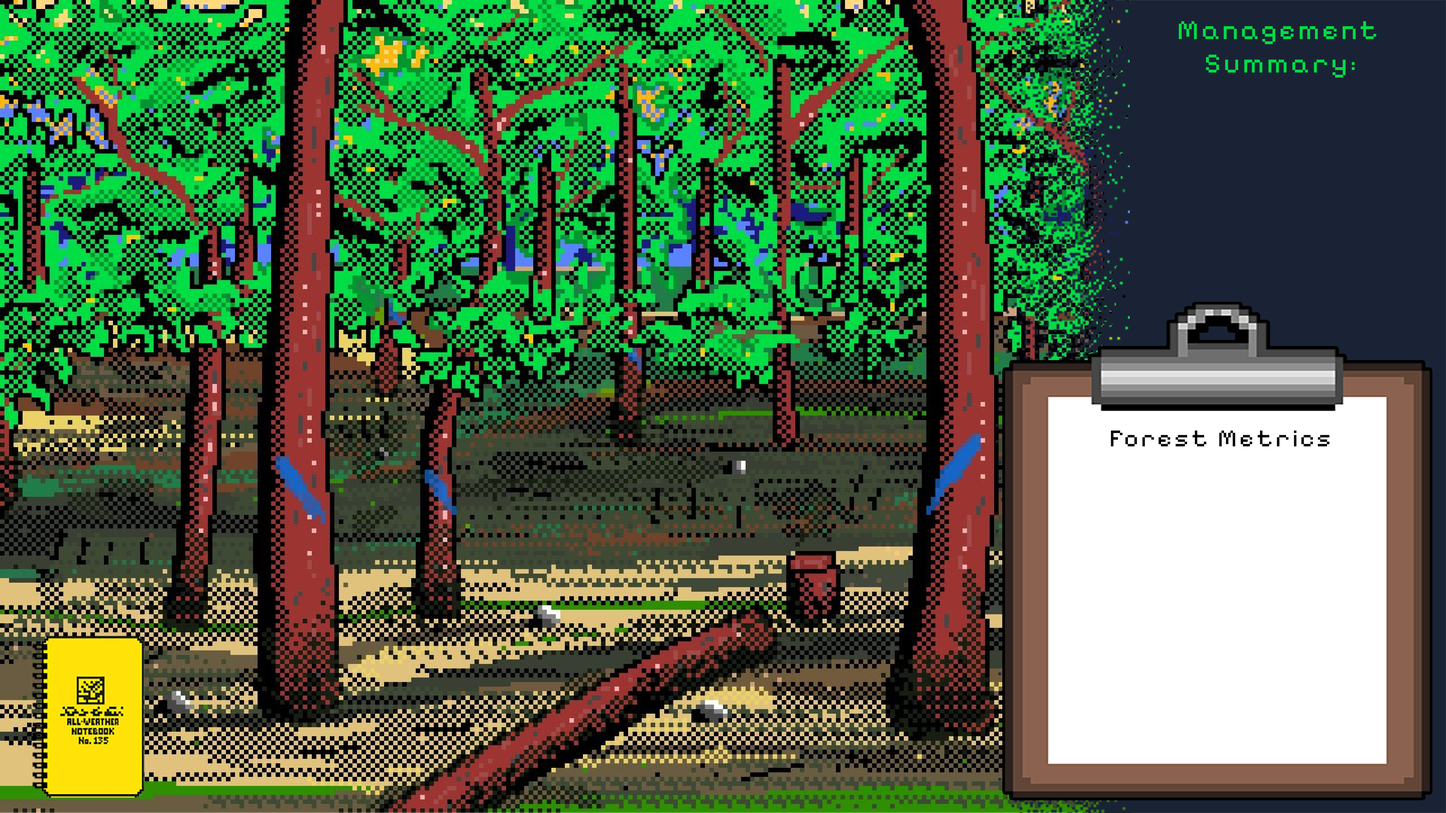
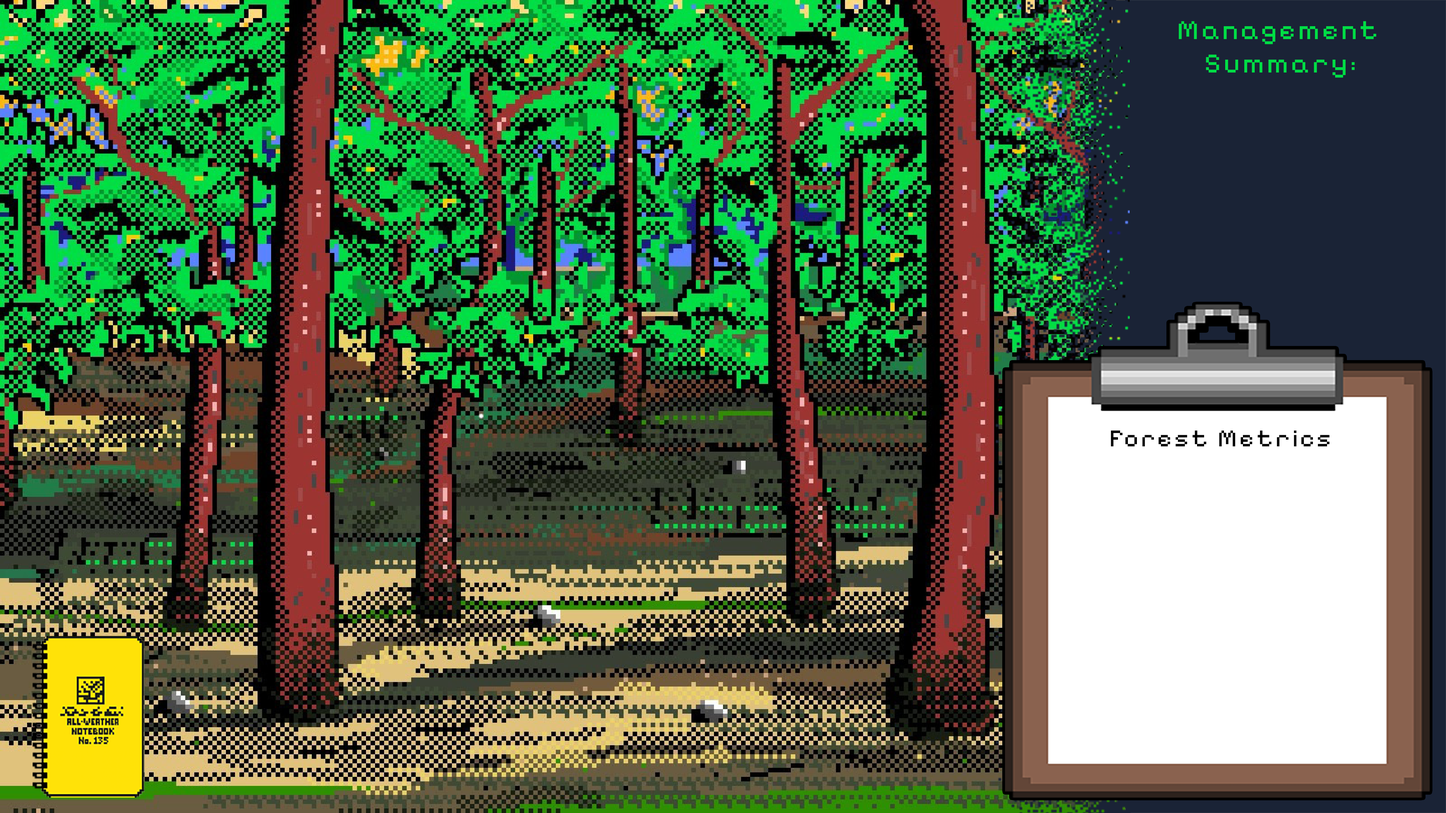
Adding combination of mid game play images
thin lightly, prescribed burn, thin lightly after prescribed burn, prescribed burn after thin lightly. Need to still fix the animation for the complex two

diff --git a/src/gui.py b/src/gui.py
@@ -23,6 +23,11 @@ def main():
 
     # Initialize game and UI constants
     game = Game()
+    game.current_bg_img = "assets/Evenagestand.png"
+    game.thin_lightly_event = False
+    game.prescribed_burn_event = False
+    game.prescribed_burn_temp_bg = None
+    game.thin_lightly_temp_bg = None
     BG_COLOR = "#FFFFFF"    # White background
     FG_COLOR = "#000000"    # Black text
     FONT = ("Courier New", 12, "bold")
@@ -54,12 +59,12 @@ def main():
 
 
     def restart_game(frame_to_remove):
-        """Reset the game and display the main game screen.
-        
-        Args:
-            frame_to_remove (tk.Frame): Current frame to remove
-        """
         game.reset_game()
+        game.current_bg_img = "assets/Evenagestand.png"
+        game.thin_lightly_event = False
+        game.prescribed_burn_event = False
+        game.prescribed_burn_temp_bg = None
+        game.thin_lightly_temp_bg = None
         for widget in root.winfo_children():
             widget.pack_forget()
         show_game_screen()
@@ -770,8 +775,21 @@ def main():
         game_frame = tk.Frame(root, bg=BG_COLOR)
         game_frame.pack(fill="both", expand=True)
 
-        # Load and display the background image in a label
-        bg_img = Image.open("assets/Evenagestand.png")
+        # --- Conditional background image ---
+        if game.prescribed_burn_event and game.thin_lightly_event and not any(a in ['3'] for _, a in game.action_history):
+            bg_img_path = "assets/afterburn_treedown.png"
+        elif getattr(game, 'prescribed_burn_temp_bg', None):
+            bg_img_path = game.prescribed_burn_temp_bg
+        elif getattr(game, 'thin_lightly_temp_bg', None):
+            bg_img_path = game.thin_lightly_temp_bg
+        elif game.thin_lightly_event:
+            bg_img_path = "assets/treedown.png"
+        elif game.prescribed_burn_event:
+            bg_img_path = "assets/afterburn.png"
+        else:
+            bg_img_path = "assets/Evenagestand.png"
+
+        bg_img = Image.open(bg_img_path)
         bg_img = bg_img.resize((1920, 1080))
         bg_photo = ImageTk.PhotoImage(bg_img)
         bg_label = tk.Label(game_frame, image=bg_photo)
@@ -836,7 +854,144 @@ def main():
                 text=f"Southern Pine Beetle Risk: {status_dict['SPB_risk']}",
                 fg=get_risk_color(status_dict['SPB_risk'])
             )
+        
         def next_turn(action):
+            # --- Prescribed burn event logic ---
+            if (action == '4' and
+                not game.prescribed_burn_event and
+                not any(a in ['2', '3'] for _, a in game.action_history)):
+                game.prescribed_burn_event = True
+                pine_snakes_before = game.pine_snakes_colonized
+                game.update_stand(action)
+                event = game.simulate_event()
+                game.stand['year'] += 10
+
+                if not pine_snakes_before and game.pine_snakes_colonized:
+                    game.prescribed_burn_temp_bg = "assets/afterburn.png"
+                    show_pine_snake_screen()
+                    return
+                if game.gentian_colonized and not game.gentian_screen_shown:
+                    game.gentian_screen_shown = True
+                    game.prescribed_burn_temp_bg = "assets/afterburn.png"
+                    show_gentian_screen()
+                    return
+
+                def show_prescribedburn_then_afterburn():
+                    game.prescribed_burn_temp_bg = "assets/prescribedburn.png"
+                    show_game_screen()
+                    root.after(2000, lambda: finish_prescribed_burn_event())
+                def finish_prescribed_burn_event():
+                    game.prescribed_burn_temp_bg = "assets/afterburn.png"
+                    show_game_screen()
+                    root.after(100, lambda: setattr(game, 'prescribed_burn_temp_bg', None))
+                show_prescribedburn_then_afterburn()
+                return
+
+            # --- Thin lightly event logic ---
+            if (action == '2' and
+                not game.thin_lightly_event and
+                not any(a in ['3', '4'] for _, a in game.action_history)):
+                game.thin_lightly_event = True
+                pine_snakes_before = game.pine_snakes_colonized
+                game.update_stand(action)
+                event = game.simulate_event()
+                game.stand['year'] += 10
+
+                # Achievement check
+                if not pine_snakes_before and game.pine_snakes_colonized:
+                    # Set final image, skip animation
+                    game.thin_lightly_temp_bg = "assets/afterburn_treedown.png"
+                    show_pine_snake_screen()
+                    return
+                if game.gentian_colonized and not game.gentian_screen_shown:
+                    game.gentian_screen_shown = True
+                    game.thin_lightly_temp_bg = "assets/afterburn_treedown.png"
+                    show_gentian_screen()
+                    return
+
+                # If no achievement, play animation as normal
+                def show_chainsaw_then_advance():
+                    game.thin_lightly_temp_bg = "assets/chainsaw.png"
+                    show_game_screen()
+                    root.after(500, lambda: finish_thin_lightly_event())
+                def finish_thin_lightly_event():
+                    game.thin_lightly_temp_bg = "assets/treedown.png"
+                    show_game_screen()
+                    root.after(100, lambda: setattr(game, 'thin_lightly_temp_bg', None))
+                show_chainsaw_then_advance()
+                return
+
+            # --- Prescribed burn after thin lightly but not thin heavily ---
+            if (action == '4'
+                and not game.prescribed_burn_event
+                and game.thin_lightly_event
+                and not any(a in ['3'] for _, a in game.action_history)):
+                game.prescribed_burn_event = True
+
+                pine_snakes_before = game.pine_snakes_colonized
+                game.update_stand(action)
+                event = game.simulate_event()
+                game.stand['year'] += 10
+
+                # Achievement check
+                if not pine_snakes_before and game.pine_snakes_colonized:
+                    game.prescribed_burn_temp_bg = "assets/afterburn_treedown.png"
+                    show_pine_snake_screen()
+                    return
+                if game.gentian_colonized and not game.gentian_screen_shown:
+                    game.gentian_screen_shown = True
+                    game.prescribed_burn_temp_bg = "assets/afterburn_treedown.png"
+                    show_gentian_screen()
+                    return
+
+                # Animation: prescribedburn_treedown.png for 2s, then afterburn_treedown.png
+                def show_prescribedburn_treedown_then_afterburn_treedown():
+                    game.prescribed_burn_temp_bg = "assets/prescribedburn_treedown.png"
+                    show_game_screen()
+                    root.after(2000, finish_prescribed_burn_treedown_event)
+                def finish_prescribed_burn_treedown_event():
+                    game.prescribed_burn_temp_bg = "assets/afterburn_treedown.png"
+                    show_game_screen()
+                    root.after(100, lambda: setattr(game, 'prescribed_burn_temp_bg', None))
+                show_prescribedburn_treedown_then_afterburn_treedown()
+                return
+
+            # --- Thin lightly after prescribed burn but not thin heavily ---
+            if (action == '2'
+                and not game.thin_lightly_event
+                and game.prescribed_burn_event
+                and not any(a in ['3'] for _, a in game.action_history)):
+                game.thin_lightly_event = True
+
+                pine_snakes_before = game.pine_snakes_colonized
+                game.update_stand(action)
+                event = game.simulate_event()
+                game.stand['year'] += 10
+
+                # Achievement check
+                if not pine_snakes_before and game.pine_snakes_colonized:
+                    # Set final image, skip animation
+                    game.thin_lightly_temp_bg = "assets/afterburn_treedown.png"
+                    show_pine_snake_screen()
+                    return
+                if game.gentian_colonized and not game.gentian_screen_shown:
+                    game.gentian_screen_shown = True
+                    game.thin_lightly_temp_bg = "assets/afterburn_treedown.png"
+                    show_gentian_screen()
+                    return
+
+                # Animation: chainsaw_afterburn.png for 0.5s, then afterburn_treedown.png
+                def show_chainsaw_afterburn_then_afterburn_treedown():
+                    game.thin_lightly_temp_bg = "assets/chainsaw_afterburn.png"
+                    show_game_screen()
+                    root.after(500, finish_chainsaw_afterburn_event)
+                def finish_chainsaw_afterburn_event():
+                    game.thin_lightly_temp_bg = "assets/afterburn_treedown.png"
+                    show_game_screen()
+                    root.after(100, lambda: setattr(game, 'thin_lightly_temp_bg', None))
+                show_chainsaw_afterburn_then_afterburn_treedown()
+                return
+
             pine_snakes_before = game.pine_snakes_colonized
             game.update_stand(action)
             event = game.simulate_event()
@@ -892,6 +1047,7 @@ def main():
                 activebackground="#05dd4c",
                 command=btn_command
             ).pack(pady=5)
+            
         # --- Definitions Button Frame ---
         definitions_frame = tk.Frame(game_frame, bg="#FFFFFF")
         definitions_frame.place(relx=0.05, rely=0.96, anchor="sw")
